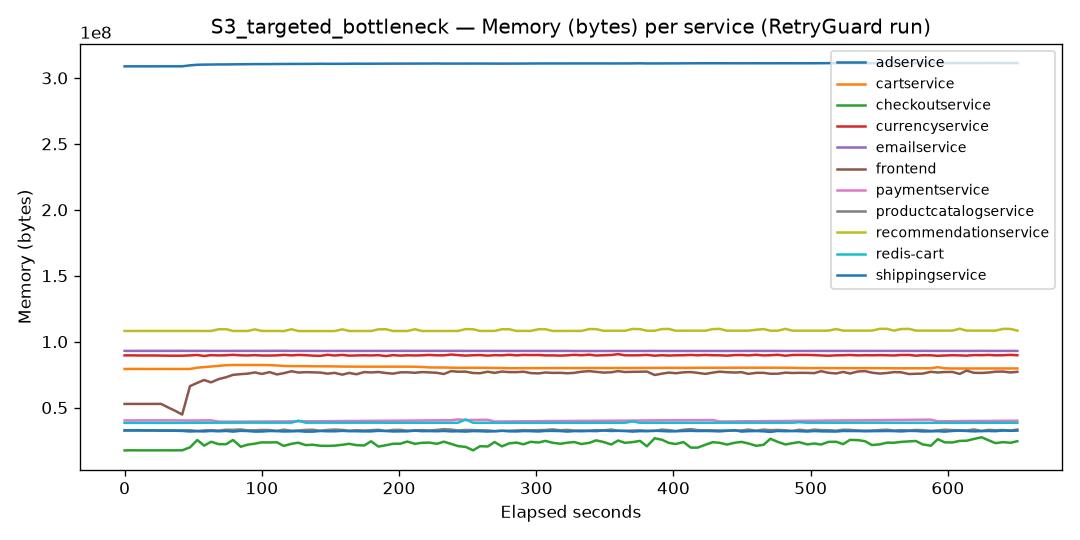
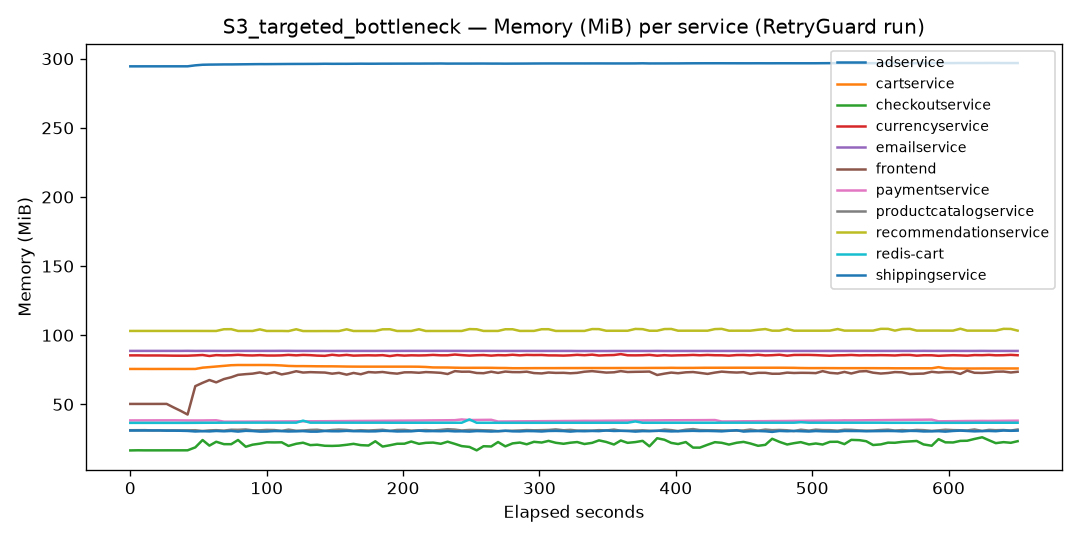
Plot mentor-update memory charts in MiB instead of raw bytes.

diff --git a/experiments/mentor_charts.py b/experiments/mentor_charts.py
@@ -203,12 +203,14 @@ def generate_retries_and_resources(
 
     for column, label in (
         ("cpu_millicores", "CPU (millicores)"),
-        ("memory_working_set_bytes", "Memory (bytes)"),
+        ("memory_working_set_bytes", "Memory (MiB)"),
     ):
         per_repeat = [mcd.resource_usage_series(run_dir, column) for run_dir in rg_dirs]
         averaged = mcd.downsample_series(
             mcd.average_dataframes(per_repeat), COLLECTOR_PLOT_STEP_SECONDS
         )
+        if column == "memory_working_set_bytes" and not averaged.empty:
+            averaged = averaged / (1024 ** 2)
         for target_dir in (curated_dir, gallery_dir):
             mcp.plot_multi_line(
                 averaged,
